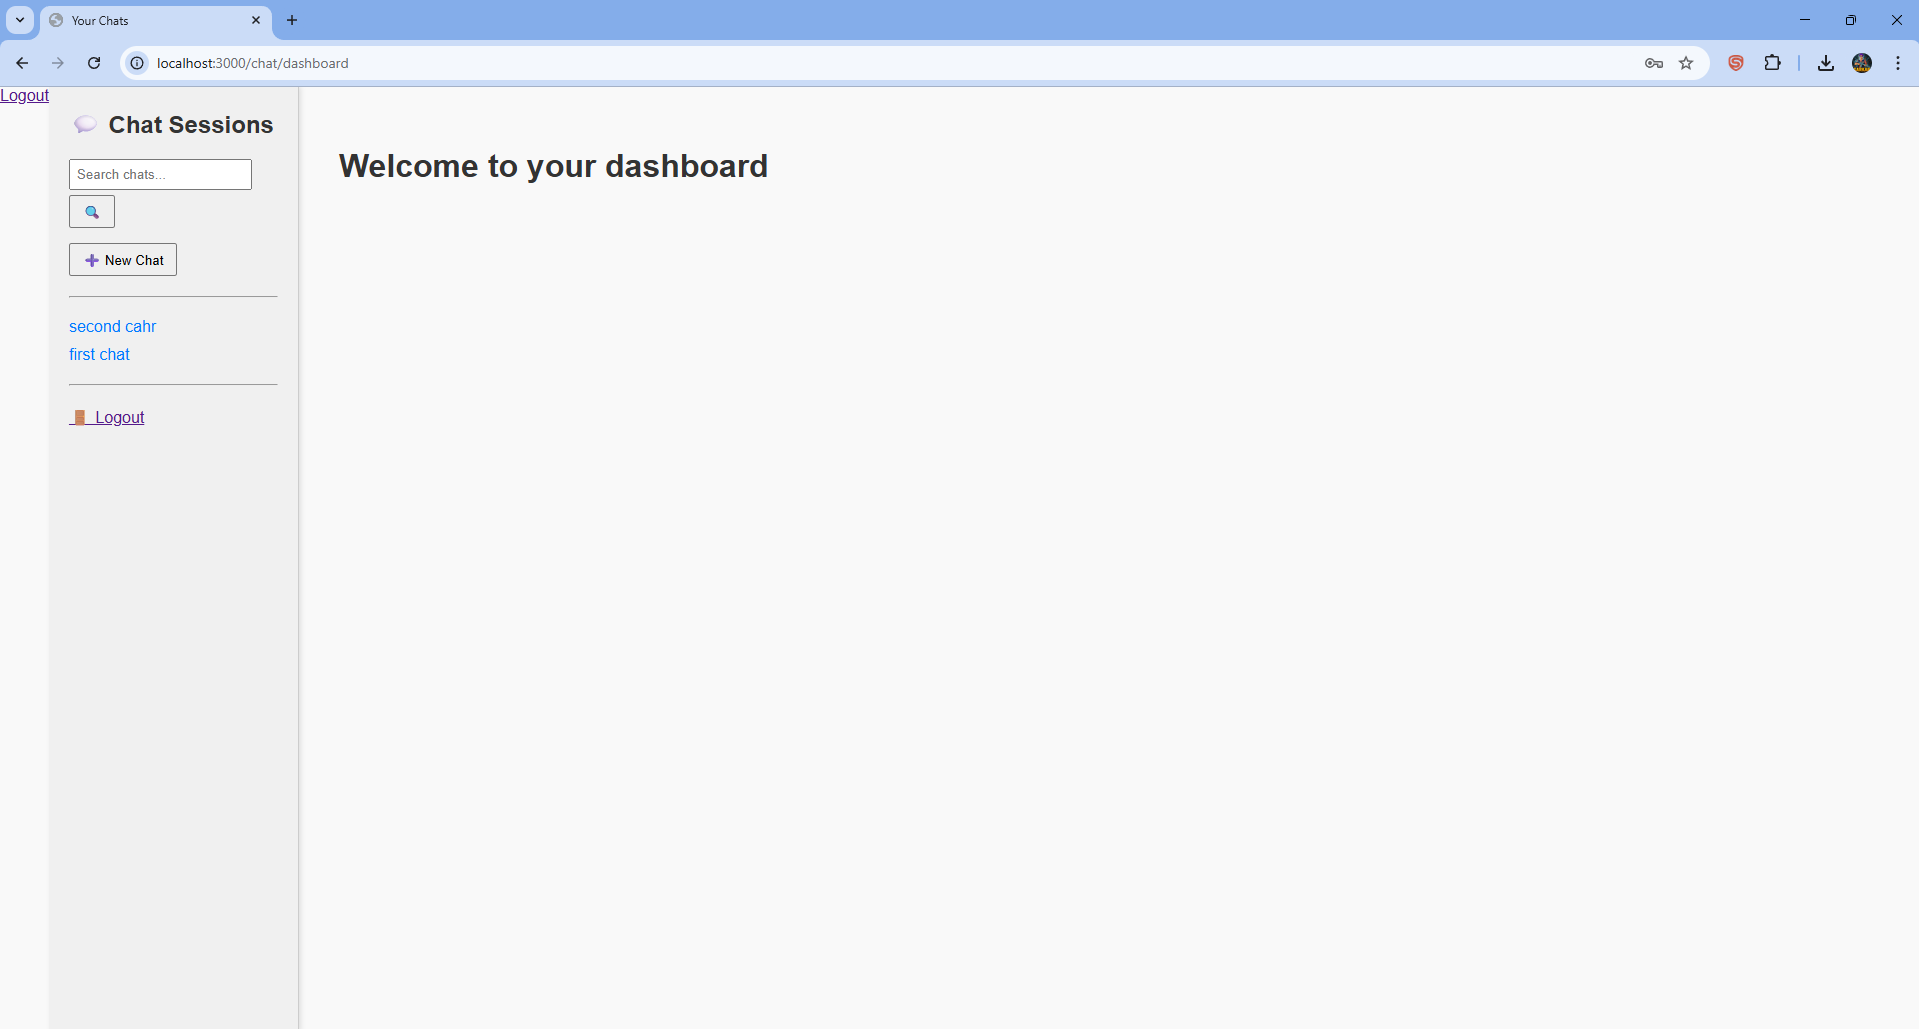
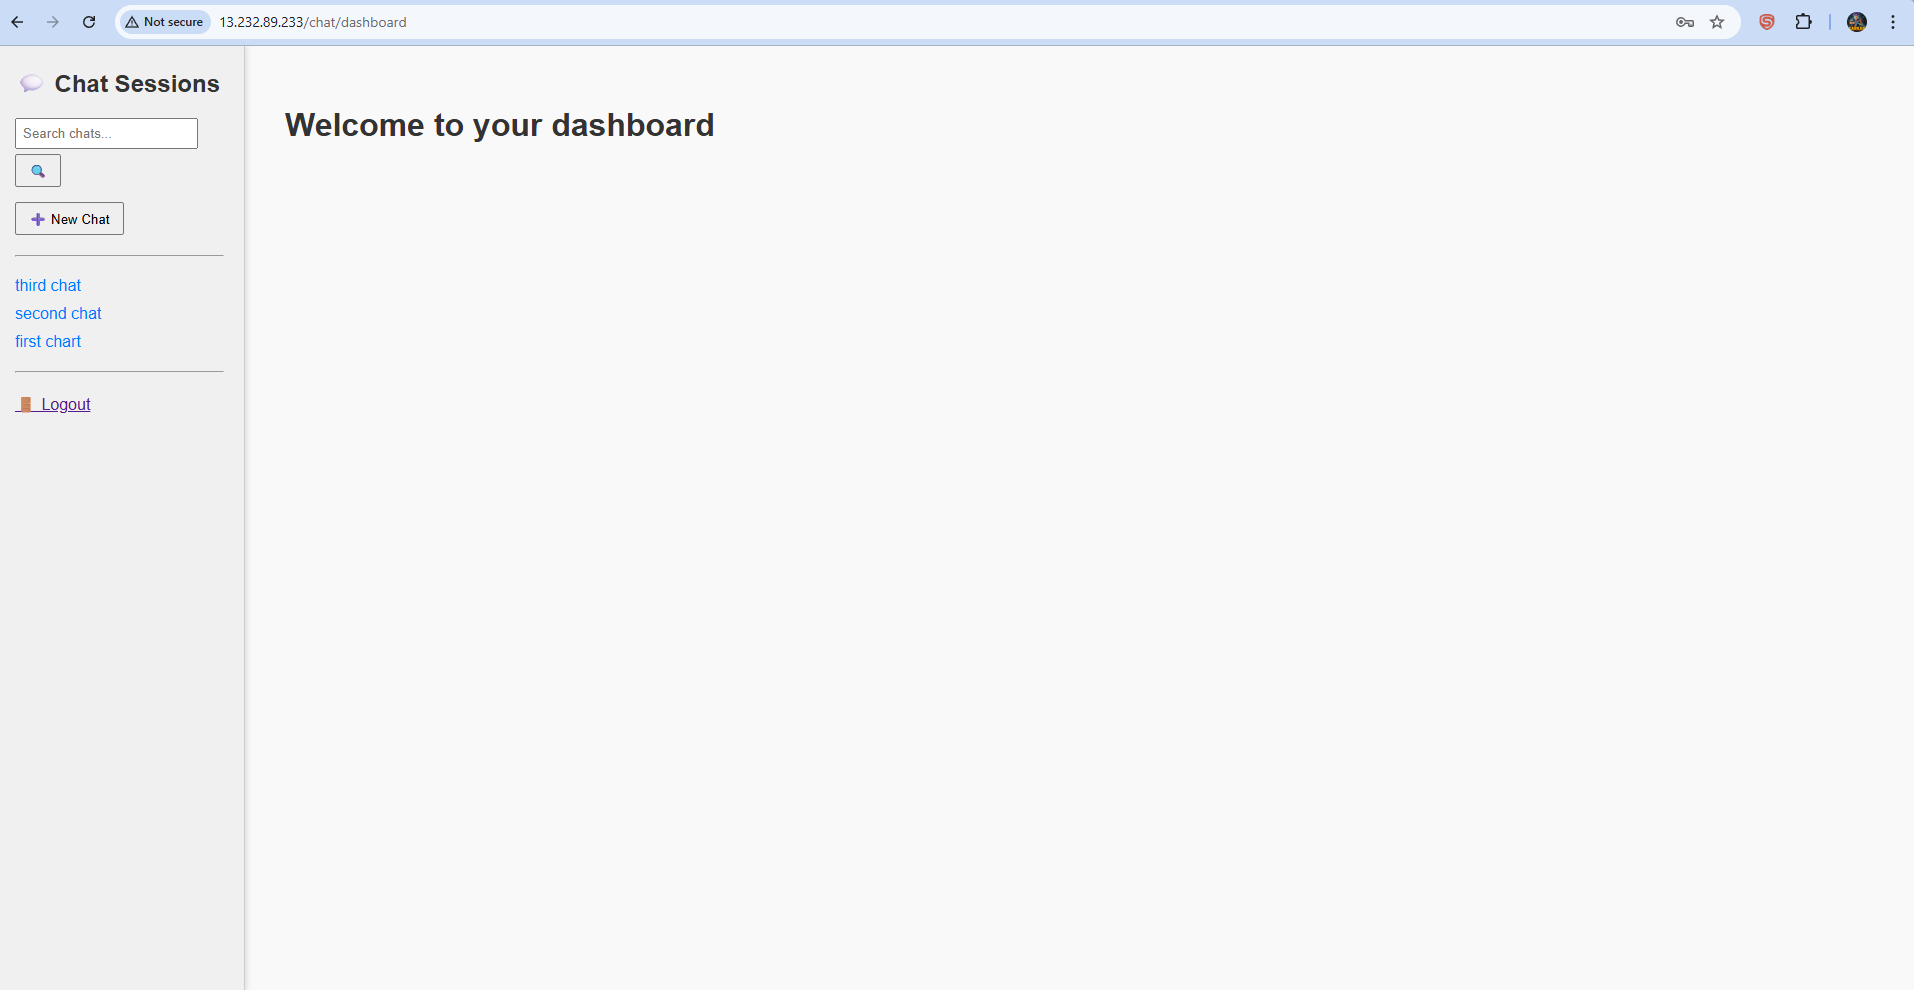
docs: update README for EC2 deployment and update screenshots

Changed region(s): [[0.0, 0.0, 1.0, 0.3636], [0.0, 0.3939, 0.0925, 0.4242]]

diff --git a/README.md b/README.md
@@ -126,7 +126,42 @@ npx nodemon app.js
 ```
 
 
+
 App runs at: http://localhost:3000
+
+---
+
+## 🌐 Live Deployment
+
+The app is deployed and accessible at:
+
+👉 http://13.232.89.233/auth/login
+
+### Deploying to AWS EC2
+
+1. Launch an EC2 instance (Ubuntu recommended).
+2. Install Node.js, npm, and git.
+3. Clone your repository:
+   ```bash
+   git clone https://github.com/SIDDHARRTHA/Chat-Bot-AI-Based.git
+   cd Chat-Bot-AI-Based
+   npm install
+   ```
+4. Set environment variables globally or in a `.env` file (see above).
+5. Start the app:
+   ```bash
+   node app.js
+   # or
+   npx nodemon app.js
+   ```
+6. Open port 3000 in your EC2 security group.
+7. Visit `http://<your-ec2-public-ip>:3000` in your browser.
+
+---
+
+## 📸 Preview
+
+Screenshots updated for deployed version:
 
 ---
 
